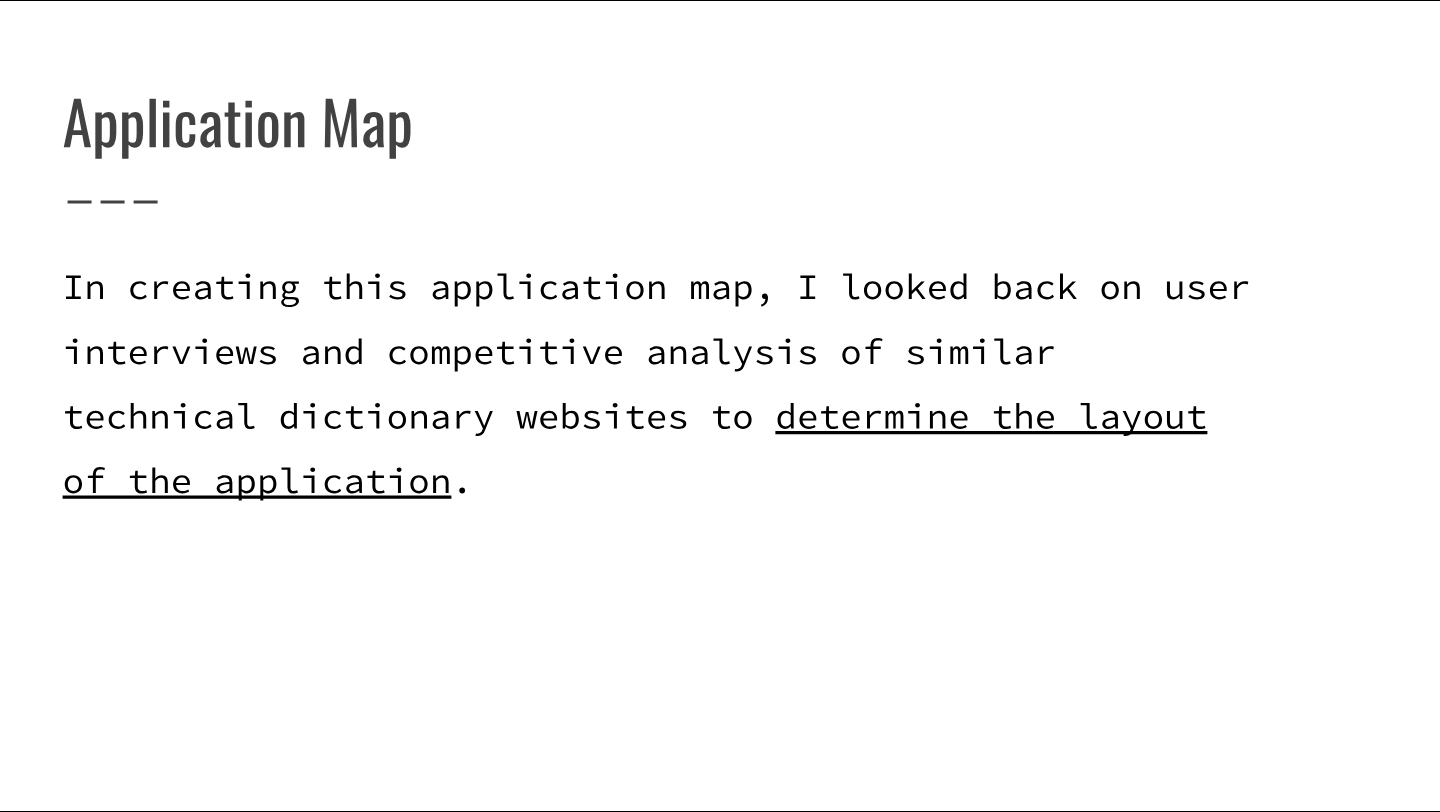
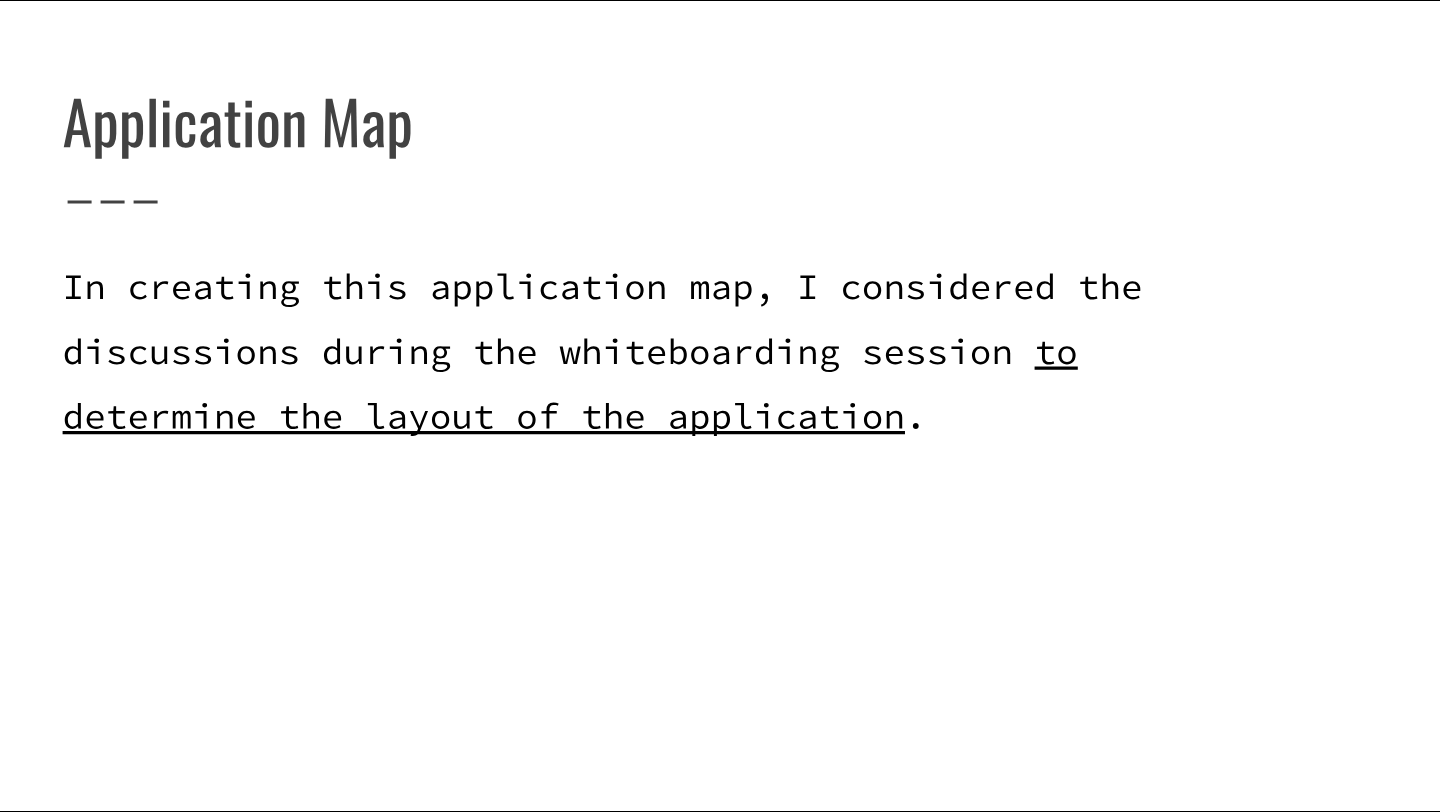
added whiteboarding slides to ux project

diff --git a/index.html b/index.html
@@ -301,6 +301,14 @@
               <a data-fancybox="ux-contech" href="img/ux/ux-contech5.png"></a>
               <a data-fancybox="ux-contech" href="img/ux/ux-contech6.png"></a>
               <a data-fancybox="ux-contech" href="img/ux/ux-contech7.png"></a>
+              <a data-fancybox="ux-contech" 
+              href="img/ux/ux-contech7a.png"></a>
+              <a data-fancybox="ux-contech" 
+              href="img/ux/ux-contech7b.jpg"></a>
+              <a data-fancybox="ux-contech" 
+              href="img/ux/ux-contech7c.jpg"></a>
+              <a data-fancybox="ux-contech" 
+              href="img/ux/ux-contech7d.jpg"></a>
               <a data-fancybox="ux-contech" href="img/ux/ux-contech8.png"></a>
               <a data-fancybox="ux-contech" href="img/ux/ux-contech9.png"></a>
               <a data-fancybox="ux-contech" href="img/ux/ux-contech10.png"></a>
